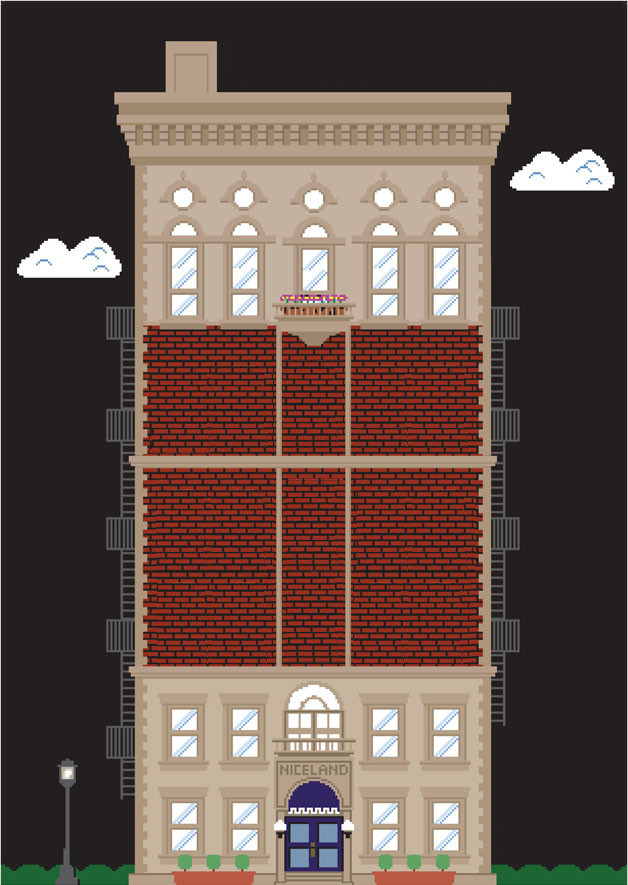
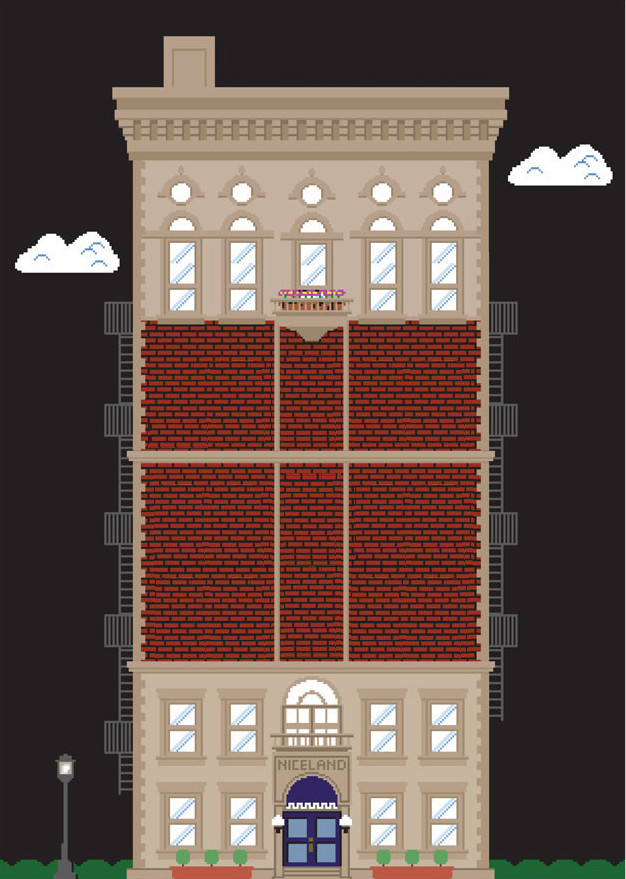
add img & finish game

diff --git a/index.html b/index.html
@@ -9,6 +9,7 @@
   <meta name="viewport" content="width=device-width, initial-scale=1">
 
   <link rel="apple-touch-icon" href="apple-touch-icon.png">
+  <link rel="icon" href="favicon.png">
   <!-- Place favicon.ico in the root directory -->
 
   <!-- CSS -->
@@ -16,10 +17,6 @@
   <link rel="stylesheet" href="css/main.css">
   <link rel="stylesheet" href="css/bootstrap.min.css">
   <link rel="stylesheet" href="css/style.css">
-
-  <!-- <script src="js/vendor/modernizr-2.8.3.min.js"></script> -->
-  <!-- bootstrap -->
-  <!-- <link rel="stylesheet" href="https://maxcdn.bootstrapcdn.com/bootstrap/4.0.0-alpha.6/css/bootstrap.min.css" integrity="sha384-rwoIResjU2yc3z8GV/NPeZWAv56rSmLldC3R/AZzGRnGxQQKnKkoFVhFQhNUwEyJ" crossorigin="anonymous"> -->
 
 </head>
 
@@ -51,7 +48,7 @@
         <img class="img" onclick="choice(this)" src="img/window.jpg" alt="">
         <img class="img" onclick="choice(this)" src="img/window.jpg" alt="">
         <img class="img" onclick="choice(this)" src="img/window.jpg" alt="">
-        <img class="img" src="img/window.jpg" alt="">
+        <img class="img" onclick="src='img/windowbreak.jpg'" src="img/window.jpg" alt="">
 
       </div>
 
@@ -61,106 +58,65 @@
   </div>
 
 
-  <!-- <div id="allCard">
-    <div><img onclick="choice(this)" class="img" src="" alt=""></div>
-    <div><img onclick="choice(this)" class="img" src="" alt=""></div>
-    <div><img onclick="choice(this)" class="img" src="" alt=""></div>
-    <div><img onclick="choice(this)" class="img" src="" alt=""></div>
-    <div><img onclick="choice(this)" class="img" src="" alt=""></div>
-    <div><img onclick="choice(this)" class="img" src="" alt=""></div>
-    <div><img onclick="choice(this)" class="img" src="" alt=""></div>
-    <div><img onclick="choice(this)" class="img" src="" alt=""></div>
-    <div><img onclick="choice(this)" class="img" src="" alt=""></div>
-    <div><img onclick="choice(this)" class="img" src="" alt=""></div>
-    <div><img onclick="choice(this)" class="img" src="" alt=""></div>
-    <div><img onclick="choice(this)" class="img" src="" alt=""></div>
-    <div><img onclick="choice(this)" class="img" src="" alt=""></div>
-    <div><img onclick="choice(this)" class="img" src="" alt=""></div>
-  </div> -->
-
-
   <script type="text/javascript">
     // // TRI
     var allimg = document.getElementsByClassName("img");
-    // var allCardTag = document.getElementById("allCard").childNodes;
-    // // PUT ONLY IMG&INPUT
-    // var allCard = [];
-    // for (var i = 0; i < allCardTag.length; i++) {
-    //   if (i % 2 != 0) {
-    //     allCard.push(allCardTag[i]);
-    //   }
-    // }
-    //
-    //
-    //
-    var T=[1,1,2,2,3,3,4,4,5,5,6,6,7,7];
+
+    var T = [1, 1, 2, 2, 3, 3, 4, 4, 5, 5, 6, 6, 7, 7];
 
     // CHANGE ORDER OF T
-    for(var position=T.length-1; position>=1; position--){
-    	var hasard=Math.floor(Math.random()*(position+1));
-    	var sauve=T[position];
-    	T[position]=T[hasard];
-    	T[hasard]=sauve;
+    for (var position = T.length - 1; position >= 1; position--) {
+      var hasard = Math.floor(Math.random() * (position + 1));
+      var sauve = T[position];
+      T[position] = T[hasard];
+      T[hasard] = sauve;
     }
-    //
+
     for (var i = 0; i < T.length; i++) {
-      allimg[i].value =T[i];
-      allimg[i].src ="img/window.jpg";
+      allimg[i].value = T[i];
+      allimg[i].src = "img/window.jpg";
     }
-    //
-    var firstChoiceValue=99;
-    var firstchoice=0;
-    var secondChoiceValue=99;
-    function choice(img){
-      if (firstChoiceValue ==99) {
-        firstChoiceValue = img.value;
-        img.src ="img/"+ firstChoiceValue+".jpg";
-        firstchoice = img;
+
+    var firstChoiceValue = 99;
+    var firstChoice = 0;
+    var secondChoiceValue = 99;
+    var done=[];
+
+    function choice(img) {
+      if (img.value == "break") {
+        console.log("break");
       }
-      else if(secondChoiceValue==99) {
+      else if (firstChoiceValue == 99) {
+        firstChoiceValue = img.value;
+        img.src = "img/" + firstChoiceValue + ".jpg";
+        firstChoice = img;
+      }
+      else if (secondChoiceValue == 99) {
         secondChoiceValue = img.value;
         if (firstChoiceValue == secondChoiceValue) {
-          img.src ="img/"+ secondChoiceValue+".jpg";
-          firstChoiceValue=99;
-          secondChoiceValue=99;
-          console.log("sisi");
-          setTimeout(function(){
-            img.src ="img/windowbreak.jpg";
-            firstchoice.src ="img/windowbreak.jpg";
+          img.src = "img/" + secondChoiceValue + ".jpg";
+          firstChoiceValue = 99;
+          secondChoiceValue = 99;
+          img.value = "break";
+          firstChoice.value = "break";
+          done += 0;
+          setTimeout(function() {
+            img.src = "img/windowbreak.jpg";
+            firstChoice.src = "img/windowbreak.jpg";
 
-          },500)
+          }, 300)
         }
         else {
-          img.src ="img/window.jpg";
-          firstchoice.src ="img/window.jpg";
-
-          firstChoiceValue=99;
-          secondChoiceValue=99;
-          firstchoice=0;
+          img.src = "img/" + secondChoiceValue + ".jpg";
+          setTimeout(function(){img.src="img/window.jpg";firstChoice.src = "img/window.jpg";firstChoiceValue = 99;secondChoiceValue = 99;firstChoice = 0;},400);
         }
       }
+      if (done.length==7) {
+        console.log("fini");
+      }
     }
-
-
   </script>
 
-  <!-- <script src="https://code.jquery.com/jquery-1.12.0.min.js"></script>
-  <script>
-    window.jQuery || document.write('<script src="js/vendor/jquery-1.12.0.min.js"><\/script>')
-  </script>
-  <script src="js/plugins.js"></script>
-  <script src="js/main.js"></script> -->
-
-  <!-- jQuery library -->
-  <!-- <script src="https://code.jquery.com/jquery-3.1.1.slim.min.js" integrity="sha384-A7FZj7v+d/sdmMqp/nOQwliLvUsJfDHW+k9Omg/a/EheAdgtzNs3hpfag6Ed950n" crossorigin="anonymous"></script> -->
-
-  <!-- Tether -->
-  <!-- <script src="https://cdnjs.cloudflare.com/ajax/libs/tether/1.4.0/js/tether.min.js" integrity="sha384-DztdAPBWPRXSA/3eYEEUWrWCy7G5KFbe8fFjk5JAIxUYHKkDx6Qin1DkWx51bBrb" crossorigin="anonymous"></script> -->
-
-  <!-- Bootstrap 4 Alpha JS -->
-  <!-- <script src="https://maxcdn.bootstrapcdn.com/bootstrap/4.0.0-alpha.6/js/bootstrap.min.js" integrity="sha384-vBWWzlZJ8ea9aCX4pEW3rVHjgjt7zpkNpZk+02D9phzyeVkE+jo0ieGizqPLForn" crossorigin="anonymous"></script> -->
-
-  <!-- Google Analytics: change UA-XXXXX-X to be your site's ID. -->
   <script>
     (function(b, o, i, l, e, r) {
       b.GoogleAnalyticsObject = l;
@@ -178,17 +134,6 @@
     ga('send', 'pageview');
   </script>
 
-  <!-- Initialize Bootstrap functionality -->
-  <script>
-    // // Initialize tooltip component
-    // $(function() {
-    //   $('[data-toggle="tooltip"]').tooltip()
-    // })
-    // // Initialize popover component
-    // $(function() {
-    //   $('[data-toggle="popover"]').popover()
-    // })
-  </script>
 
 </body>
 

diff --git a/css/style.css b/css/style.css
@@ -7,6 +7,10 @@ body {
   background-color: #231F20;
   display: flex;
   justify-content: space-around;
+  background-image: url("../img/bg.jpg");
+  background-size: 400px 500px;
+  background-repeat: repeat-x;
+  background-position: bottom;
 }
 
 #building {
@@ -44,7 +48,7 @@ body {
   margin-bottom: 2px;
 }
 
-@media (min-width: 1100px) {
+@media (min-width: 1200px) {
   #building {
     width: 440px;
     height: 100vh;

diff --git a/css/style.scss b/css/style.scss
@@ -6,7 +6,10 @@ body{
   background-color: #231F20;
   display: flex;
   justify-content: space-around;
-
+  background-image: url("../img/bg.jpg");
+  background-size: 400px 500px;
+  background-repeat: repeat-x;
+  background-position: bottom;
 
 }
 #building{
@@ -46,7 +49,7 @@ body{
     }
   }
 }
-@media (min-width : 1100px) {
+@media (min-width : 1200px) {
   #building{
     width: 440px;
     height: 100vh;
